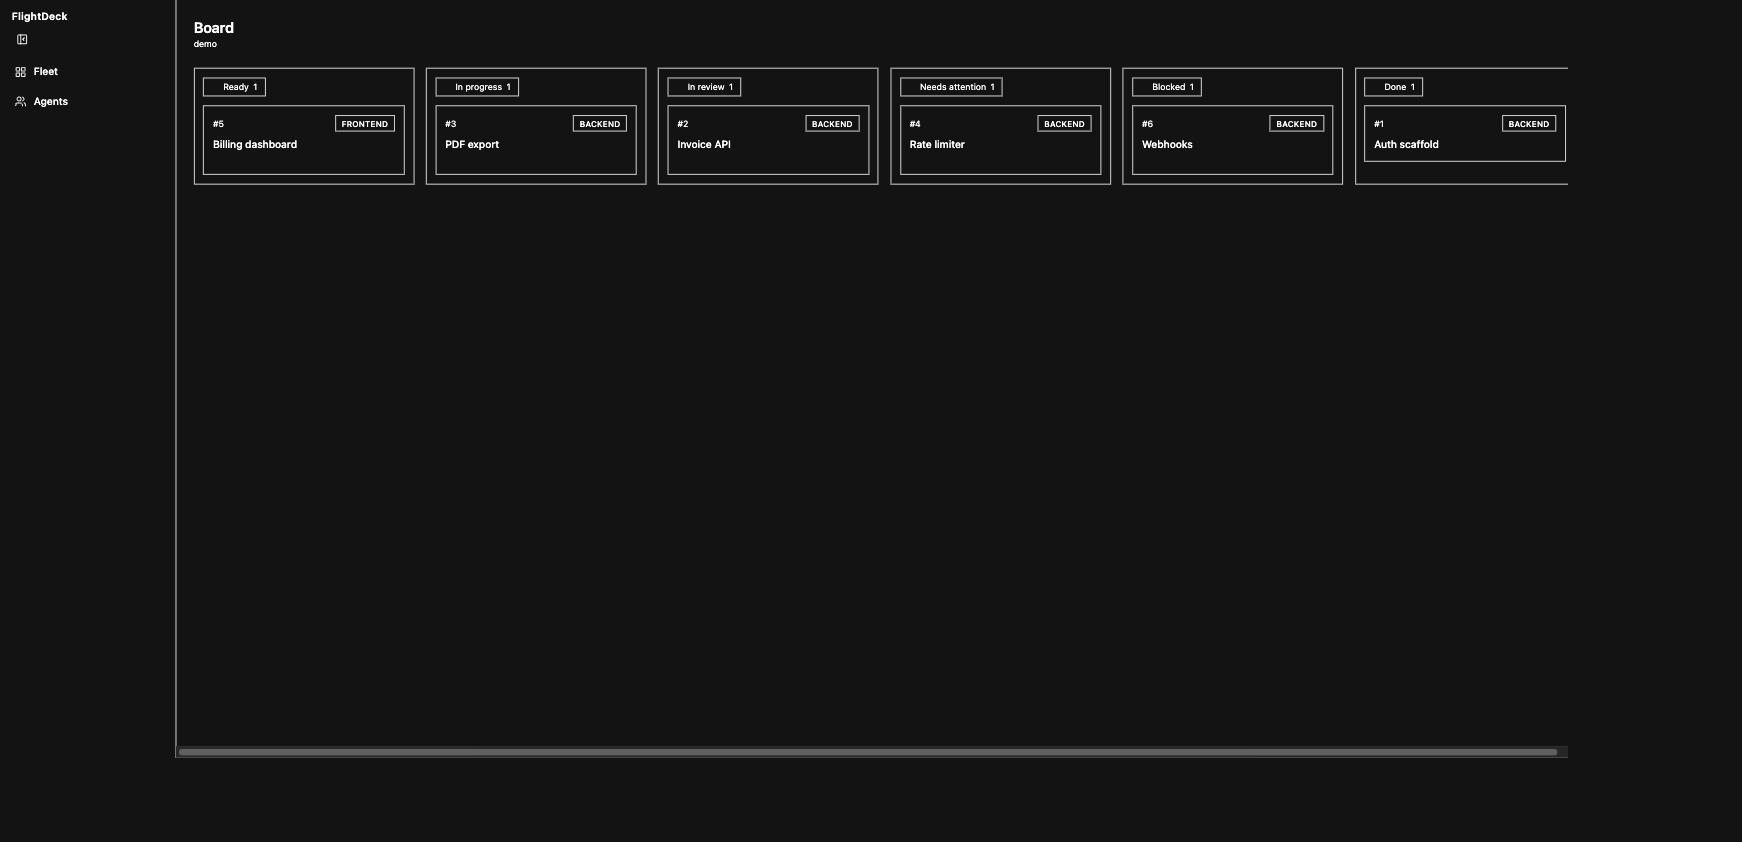
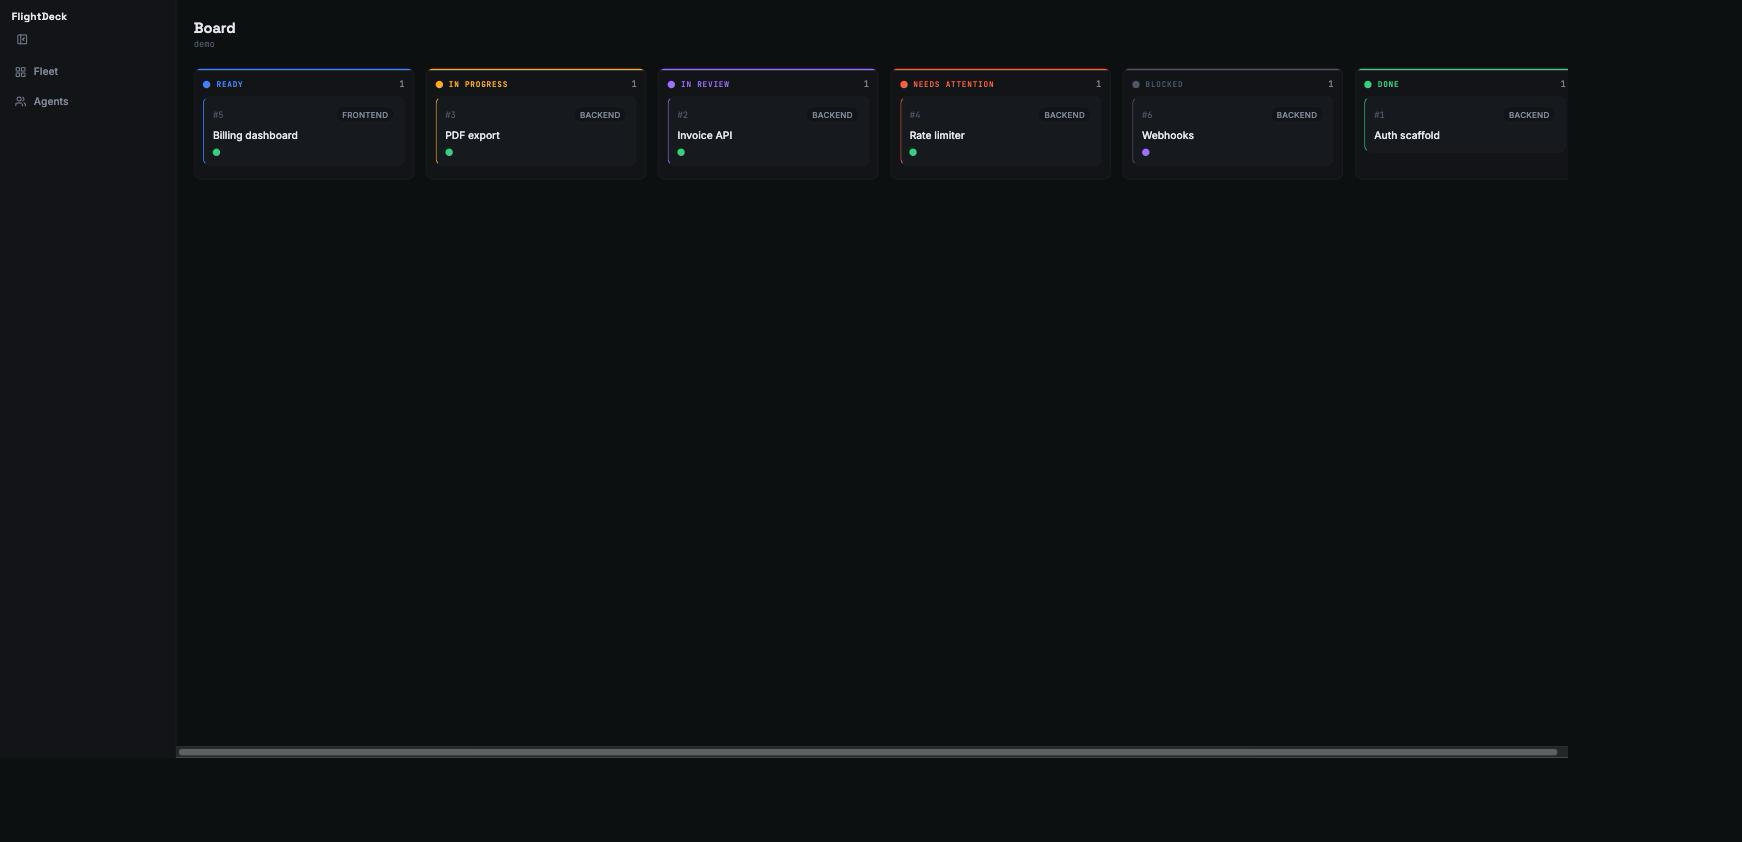
Fix dropped design tokens; make status the visual language (#17)
The dashboard rendered as a near-monochrome wireframe because
ui/src/index.css imported tokens.css AFTER the @tailwind directives.
CSS requires @import to precede all other rules, so PostCSS silently
dropped it — every design token (--bg, --surface, --text, --accent, the
six --st-* status colours, fonts, radii) was undefined at runtime and
the app ran on fallback colours (transparent surfaces, currentColor
borders, invisible status dots). None of the build/lint/test/snapshot
gates catch this since it only manifests as unresolved CSS vars in the
browser. Moved the @import to the top; the bundled CSS now carries the
:root token block (verified --st-ready/--bg present).

With the tokens actually resolving, made status read instantly per
DESIGN.md's thesis ("status is the entire visual language"), coloring
each element by ITS OWN status (the §2.2 semantic, not decorative reuse):
- Column: a status-colour accent bar + the lane label in its status
  colour, so the board reads as six colour-coded lanes at a glance;
  bespoke header (StatusChip is project-card-scoped per §3). min-height
  so short lanes stay legible.
- TicketCard: a 2px left edge in the ticket's derived-status colour.
- StatusChip: the count set in the status colour, zero counts drop to
  the quiet dim tokens, lighter pill chrome — the project card's status
  mix reads by colour.
- Added lib/status.statusColor(); StatusDot reuses it. Updated the
  StatusChip snapshots for the intentional redesign.
[…]

diff --git a/ui/src/components/Column.tsx b/ui/src/components/Column.tsx
@@ -1,5 +1,6 @@
 import type { BoardTicket, DerivedStatus } from '../lib/types'
-import { StatusChip } from './StatusChip'
+import { STATUS_META, statusColor } from '../lib/status'
+import { StatusDot } from './StatusDot'
 import { TicketCard } from './TicketCard'
 
 export interface ColumnProps {
@@ -12,18 +13,34 @@ export interface ColumnProps {
 }
 
 /**
- * One kanban column (docs/DESIGN.md §4.2): a StatusChip-headed list of the
- * tickets in this derived status, fixed at the 300px column width (§2.4).
+ * One kanban column (docs/DESIGN.md §4.2), fixed at the 300px column width
+ * (§2.4). The lane reads as its derived status at a glance: a top accent bar
+ * and the status label both carry the §2.2 status colour — the column *is*
+ * that status, so this is the status semantic, not decorative reuse.
  */
 export function Column({ status, tickets, projectId, statuses }: ColumnProps) {
+  const meta = STATUS_META[status]
+  const color = statusColor(status)
   return (
-    <section className="flex w-[300px] shrink-0 flex-col gap-3 rounded-card border border-border-soft bg-surface p-3">
-      <header>
-        <StatusChip status={status} count={tickets.length} />
+    <section className="flex w-[300px] shrink-0 flex-col overflow-hidden rounded-card border border-border-soft bg-surface">
+      <div className="h-0.5 w-full shrink-0" style={{ backgroundColor: color }} />
+      <header className="flex items-center justify-between gap-2 px-3 pb-2 pt-3">
+        <span className="flex min-w-0 items-center gap-2">
+          <StatusDot status={status} />
+          <span
+            className="truncate font-mono text-[10.5px] font-medium uppercase tracking-[0.1em]"
+            style={{ color }}
+          >
+            {meta.label}
+          </span>
+        </span>
+        <span className="shrink-0 font-mono text-xs tabular-nums text-text-mut">
+          {tickets.length}
+        </span>
       </header>
-      <div className="flex flex-col gap-2">
+      <div className="flex min-h-[7rem] flex-1 flex-col gap-2 px-3 pb-3">
         {tickets.length === 0 ? (
-          <p className="rounded-nested border border-dashed border-border-soft px-3 py-6 text-center text-xs text-text-dim">
+          <p className="flex flex-1 items-center justify-center rounded-nested border border-dashed border-border-soft px-3 py-6 text-center text-xs text-text-dim">
             No tickets
           </p>
         ) : (

diff --git a/ui/src/components/StatusChip.tsx b/ui/src/components/StatusChip.tsx
@@ -1,5 +1,5 @@
 import type { DerivedStatus } from '../lib/types'
-import { STATUS_META } from '../lib/status'
+import { STATUS_META, statusColor } from '../lib/status'
 import { StatusDot } from './StatusDot'
 
 export interface StatusChipProps {
@@ -10,26 +10,33 @@ export interface StatusChipProps {
 }
 
 /**
- * A chip pairing a StatusDot with a label and count, for a project card's
- * per-status breakdown (docs/DESIGN.md §3). The chip surface itself stays
- * neutral (surface/border tokens) — the status colour lives on the dot only,
- * per §2.2's "never reuse them decoratively".
+ * A project card's per-status count (docs/DESIGN.md §3): a StatusDot, the
+ * label, and the count. The count is set in the §2.2 status colour — it *is*
+ * a count of that status, so the colour is the semantic, not decoration; a
+ * zero count drops back to the quiet dim tokens so a project's real activity
+ * is what reads. The pill surface itself stays neutral.
  */
 export function StatusChip({ status, count, className = '' }: StatusChipProps) {
   const meta = STATUS_META[status]
+  const empty = count === 0
   return (
     <span
       className={[
-        'inline-flex items-center gap-1.5 rounded-chip border border-border-soft',
-        'bg-surface px-2.5 py-1 text-xs text-text-mut',
+        'inline-flex items-center gap-1.5 rounded-chip bg-surface-2 px-2.5 py-1 text-xs',
+        empty ? 'text-text-dim' : 'text-text-mut',
         className,
       ]
         .filter(Boolean)
         .join(' ')}
     >
-      <StatusDot status={status} />
+      <StatusDot status={status} className={empty ? 'opacity-40' : ''} />
       <span>{meta.label}</span>
-      <span className="font-mono text-text">{count}</span>
+      <span
+        className="font-mono font-medium tabular-nums"
+        style={{ color: empty ? 'var(--text-dim)' : statusColor(status) }}
+      >
+        {count}
+      </span>
     </span>
   )
 }

diff --git a/ui/src/components/TicketCard.tsx b/ui/src/components/TicketCard.tsx
@@ -1,5 +1,6 @@
 import { Link } from 'react-router-dom'
 import type { BoardTicket, DerivedStatus } from '../lib/types'
+import { statusColor } from '../lib/status'
 import { DependencyTrail } from './DependencyTrail'
 
 export interface TicketCardProps {
@@ -12,14 +13,16 @@ export interface TicketCardProps {
 
 /**
  * One kanban card (docs/DESIGN.md §4.2): mono id, title, role chip, and the
- * dependency dot-trail. A real link to the ticket route, not a bare div with
- * onClick, so it's reachable and activatable by keyboard.
+ * dependency dot-trail. A 2px left edge carries the ticket's own derived
+ * status colour (§2.2 — the card's status, not decoration), so a card reads
+ * its status even away from its column. A real link, keyboard-activatable.
  */
 export function TicketCard({ ticket, projectId, statuses }: TicketCardProps) {
   return (
     <Link
       to={`/p/${encodeURIComponent(projectId)}/t/${ticket.id}`}
-      className="flex flex-col gap-2 rounded-card border border-border-soft bg-surface-2 p-3 transition-colors duration-150 hover:border-border"
+      style={{ borderLeftColor: statusColor(ticket.status) }}
+      className="flex flex-col gap-2 rounded-card border border-l-2 border-border-soft bg-surface-2 p-3 transition-colors duration-150 hover:border-border"
     >
       <div className="flex items-center justify-between gap-2">
         <span className="font-mono text-xs text-text-dim">#{ticket.id}</span>

diff --git a/ui/src/lib/status.ts b/ui/src/lib/status.ts
@@ -21,3 +21,11 @@ export const STATUS_META: Record<DerivedStatus, { label: string; colorVar: strin
   blocked: { label: 'Blocked', colorVar: '--st-blocked' },
   done: { label: 'Done', colorVar: '--st-done' },
 }
+
+// The status's DESIGN.md §2.2 colour as a CSS value, resolved at render time
+// via the token variable — the one place a colour literal lives is tokens.css.
+// Use this for an element that IS a given status (a kanban lane, a card's own
+// status edge, a count of that status), never as a decorative accent (§2.2).
+export function statusColor(status: DerivedStatus): string {
+  return `var(${STATUS_META[status].colorVar})`
+}

diff --git a/ui/src/index.css b/ui/src/index.css
@@ -1,8 +1,13 @@
+/* tokens.css must be imported BEFORE the @tailwind directives: CSS requires
+   @import to precede all other rules, and PostCSS silently DROPS an @import
+   that appears after them — which would leave every design token (--bg,
+   --surface, --text, --accent, the six --st-* status colours, fonts, radii)
+   undefined at runtime and the whole app rendering on fallback colours. */
+@import './styles/tokens.css';
+
 @tailwind base;
 @tailwind components;
 @tailwind utilities;
-
-@import './styles/tokens.css';
 
 html,
 body,

diff --git a/ui/src/components/StatusDot.tsx b/ui/src/components/StatusDot.tsx
@@ -1,5 +1,5 @@
 import type { DerivedStatus } from '../lib/types'
-import { STATUS_META } from '../lib/status'
+import { STATUS_META, statusColor } from '../lib/status'
 
 export interface StatusDotProps {
   status: DerivedStatus
@@ -28,7 +28,7 @@ export function StatusDot({ status, live = false, className = '' }: StatusDotPro
       ]
         .filter(Boolean)
         .join(' ')}
-      style={{ backgroundColor: `var(${meta.colorVar})` }}
+      style={{ backgroundColor: statusColor(status) }}
     />
   )
 }
